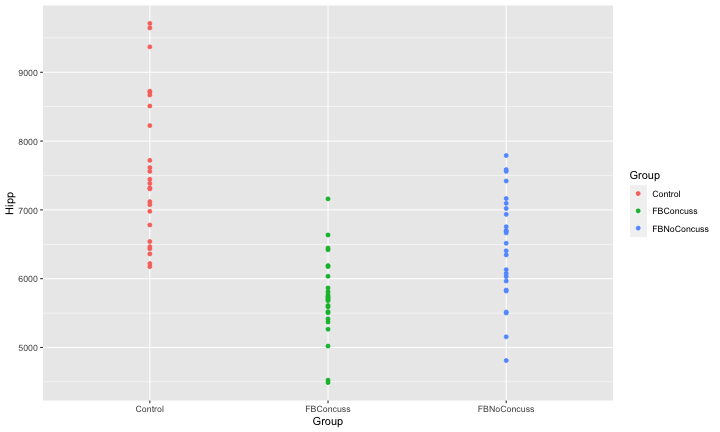
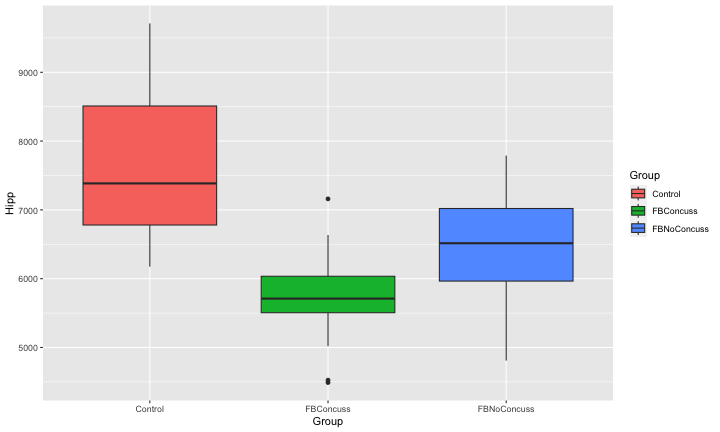
finish anova notes

diff --git a/Week 10/Week10-Notes.html b/Week 10/Week10-Notes.html
@@ -49,18 +49,28 @@ class:inverse
 ---
 ### Announcements
 
+- **Homework 7 ** due Tuesday October 31 at 11:59 pm
+- **Lab 8 ** on Thursday
+  + Due Friday October 27 at 11:59 pm
+
 
 ---
 ### Summary: What do you need to know for the t-test?
 
-- Identify the type of test (one-sample, paired, two-sample)
-- Write the null and alternative hypothesis for the test
+- **Step 1**: Identify the type of test (one-sample, paired, two-sample)
+
+&lt;img src="../images/Week10/all-t-test.png" width="100%" style="display: block; margin: auto;" /&gt;
+
+
+---
+### Summary: What do you need to know for the t-test?
+- **Step 2**: Write the null and alternative hypothesis for the test
   - Null Hypothesis always contains and equal sign
   - Alternative hypothesis is the one you want to show (research question). Can be greater than, less than, or two-sided.
-- Calculate the SE
+- **Step 3**: Calculate the SE
   - Depends on the type of test
   - Use to find the test statistic
-- Given the p-value, make a conclusion for the test
+- **Step 4**: Given the p-value, make a conclusion for the test
   - P-value + decision + content explanation
 
 ---
@@ -91,7 +101,7 @@ A study tries to understand how different the average bone density will be for t
    &lt;td style="text-align:right;"&gt; 219 &lt;/td&gt;
    &lt;td style="text-align:right;"&gt; 257 &lt;/td&gt;
    &lt;td style="text-align:right;"&gt; 211.63 &lt;/td&gt;
-   &lt;td style="text-align:right;"&gt; 18.73 &lt;/td&gt;
+   &lt;td style="text-align:right;"&gt; 8.73 &lt;/td&gt;
    &lt;td style="text-align:right;"&gt; 35 &lt;/td&gt;
   &lt;/tr&gt;
   &lt;tr&gt;
@@ -111,7 +121,9 @@ A study tries to understand how different the average bone density will be for t
 - Identify the type of the t-test
 - Write the hypothesis for the test
 - Calculate the SE of the test
-- If the p-vale is 0.4, write the conclusion of the test
+- If the p-vale is 0.3084, write the conclusion of the test
+
+---
 
 ---
 ### Statistical Modeling
@@ -182,13 +194,15 @@ The statistical model for an analysis of variance is `$$Y_{i,j} = \mu + \alpha_i
 Overall Summary Statistics - regardless of group
 
 
+
+
 ```
 ##  min   Q1 median   Q3 max  mean       sd  n missing
 ##    5 8.75     12 15.5  20 12.25 4.750598 12       0
 ```
 
 
-&lt;img src="Week10-Notes_files/figure-html/unnamed-chunk-6-1.png" style="display: block; margin: auto;" /&gt;
+&lt;img src="Week10-Notes_files/figure-html/unnamed-chunk-8-1.png" style="display: block; margin: auto;" /&gt;
 
 ---
 
@@ -203,7 +217,7 @@ Overall Summary Statistics - regardless of group
 ```
 
 
-&lt;img src="Week10-Notes_files/figure-html/unnamed-chunk-8-1.png" style="display: block; margin: auto;" /&gt;
+&lt;img src="Week10-Notes_files/figure-html/unnamed-chunk-10-1.png" style="display: block; margin: auto;" /&gt;
 
 ---
 
@@ -212,7 +226,7 @@ Overall Summary Statistics - regardless of group
 **Ask ourselves**: Does splitting our data up into groups explain the variability?
 - We want to show the variation between groups is larger than the variation within the groups.
 
-&lt;img src="Week10-Notes_files/figure-html/unnamed-chunk-9-1.png" style="display: block; margin: auto;" /&gt;
+&lt;img src="Week10-Notes_files/figure-html/unnamed-chunk-11-1.png" style="display: block; margin: auto;" /&gt;
 
 
 ---
@@ -342,22 +356,24 @@ A study in the Journal of the American Medical Association (JAMA) included three
 Write the hypothesis for the ANOVA Test if we want to test whether the three group have the same brain hippocampus volume. 
 
 ---
+
+---
 ### Football Example: Box-plots
 
-&lt;img src="Week10-Notes_files/figure-html/unnamed-chunk-11-1.png" style="display: block; margin: auto;" /&gt;
-
-
----
-### Football Example: Check Assumptions
-
-&lt;img src="Week10-Notes_files/figure-html/unnamed-chunk-12-1.png" style="display: block; margin: auto;" /&gt;
-
-
-
----
-### Football Example: Check Assumptions
-
 &lt;img src="Week10-Notes_files/figure-html/unnamed-chunk-13-1.png" style="display: block; margin: auto;" /&gt;
+
+
+---
+### Football Example: Check Assumptions
+
+&lt;img src="Week10-Notes_files/figure-html/unnamed-chunk-14-1.png" style="display: block; margin: auto;" /&gt;
+
+
+
+---
+### Football Example: Check Assumptions
+
+&lt;img src="Week10-Notes_files/figure-html/unnamed-chunk-15-1.png" style="display: block; margin: auto;" /&gt;
 
 
 Several things you can do:

diff --git a/README.html b/README.html
@@ -509,6 +509,20 @@ pm</strong></td>
 <td></td>
 <td>Lab 7 <strong>due Friday October 20 at 11:59 pm</strong></td>
 </tr>
+<tr class="odd">
+<td>10/24/2023</td>
+<td><a href="Week%2010/Week10-Notes.html">ANOVA</a></td>
+<td>One-Way ANOVA</td>
+<td></td>
+<td>Homework 7 <strong>due Tuesday October 31 at 11:59 pm</strong></td>
+</tr>
+<tr class="even">
+<td>10/26/2023</td>
+<td></td>
+<td>Lab Day</td>
+<td></td>
+<td>Lab 8 <strong>due Friday October 27 at 11:59 pm</strong></td>
+</tr>
 </tbody>
 </table>
 </div>

diff --git a/README.md b/README.md
@@ -24,3 +24,5 @@ Date | Notes | Description | Additional Files | Homework Assigned
 10/5/2023 | | Midterm | | 
 10/17/2023 | [Two-Sample Testing](Week 9/Week9-Notes.html) | Hypothesis Testing for Two Samples| | Homework 7 **due Tuesday October 31 at 11:59 pm**
 10/19/2023 | | Lab Day | | Lab 7 **due Friday October 20 at 11:59 pm**
+10/24/2023 | [ANOVA](Week 10/Week10-Notes.html) | One-Way ANOVA | | Homework 7 **due Tuesday October 31 at 11:59 pm**
+10/26/2023 | | Lab Day | | Lab 8 **due Friday October 27 at 11:59 pm**
